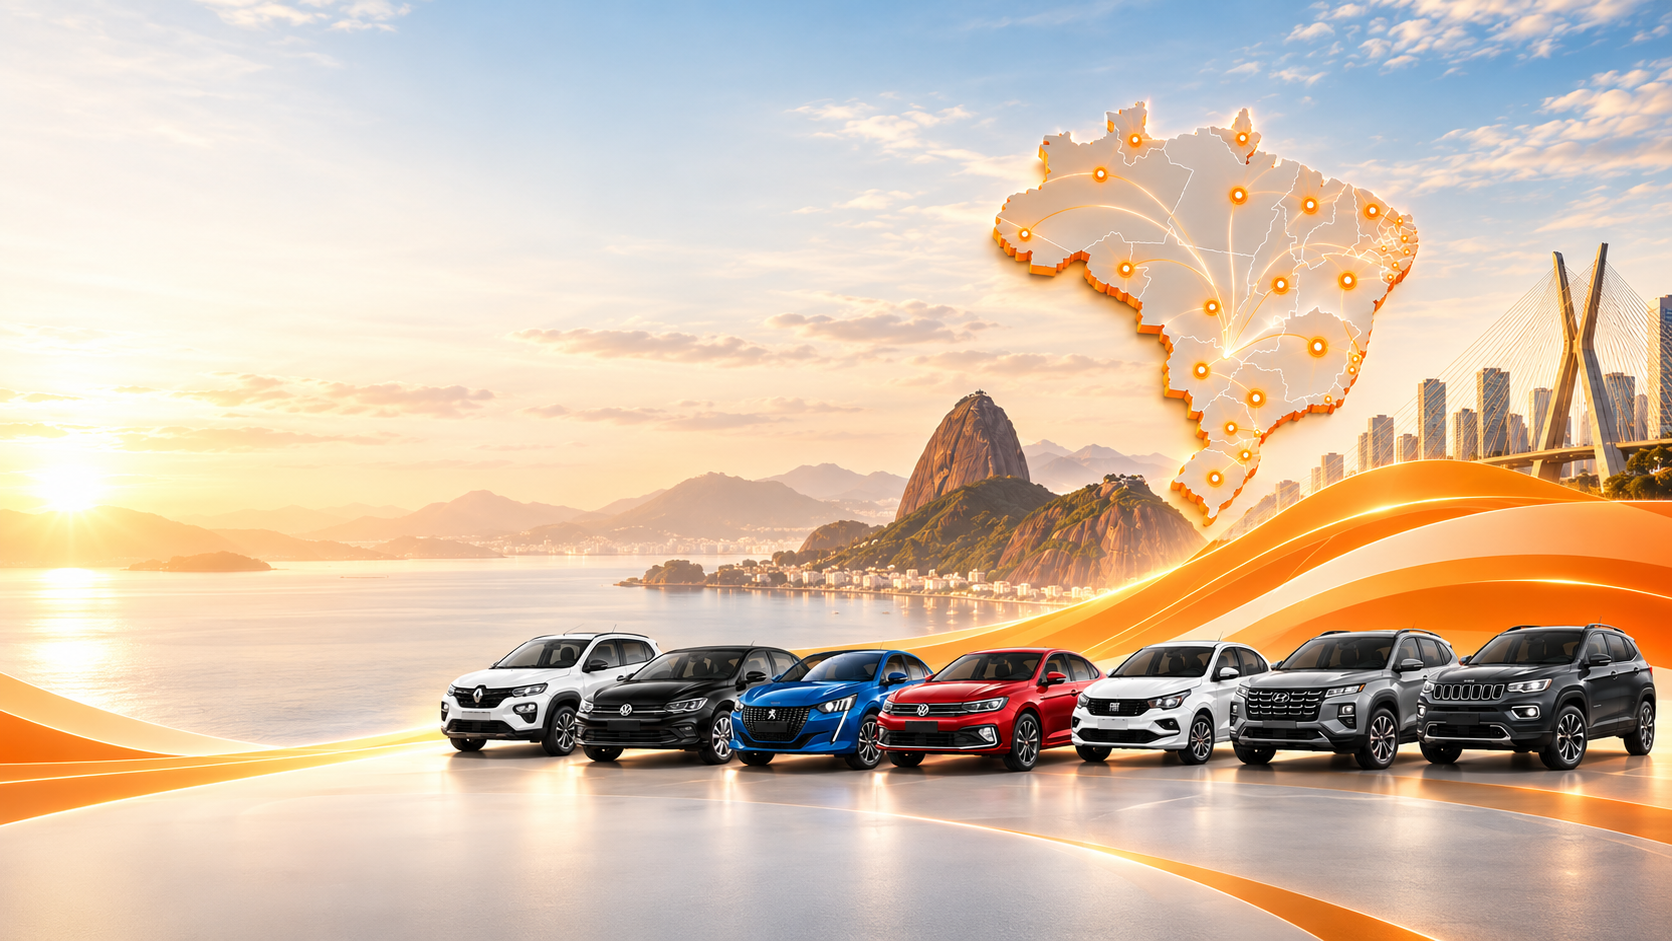
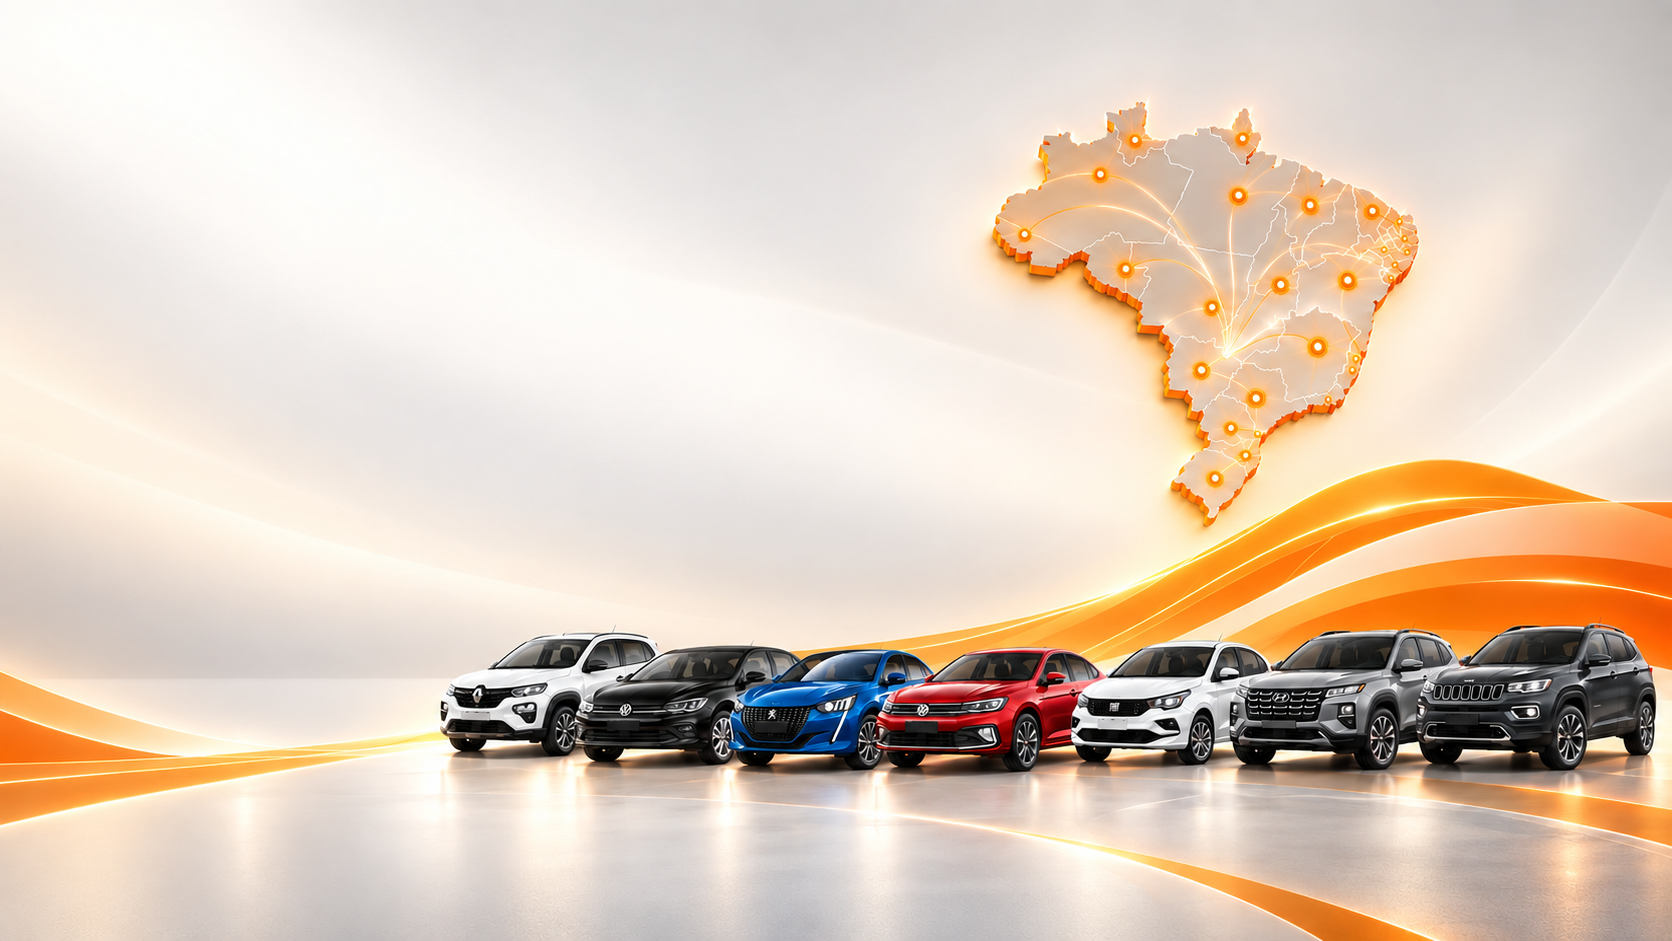
Refresh hero art and soften the section transition on desktop and mobile.
Updates background assets, widens desktop copy, and adds a stronger bottom fade into the next band.

diff --git a/src/styles/pages.scss b/src/styles/pages.scss
@@ -6,7 +6,25 @@
   align-items: center;
   overflow: hidden;
   color: var(--text);
-  background: #d8e8f4;
+  background: #f5f5f5;
+}
+
+.hero::after {
+  content: '';
+  position: absolute;
+  left: 0;
+  right: 0;
+  bottom: 0;
+  z-index: 1;
+  height: clamp(7.5rem, 28vw, 14rem);
+  pointer-events: none;
+  background: linear-gradient(
+    180deg,
+    rgba(255, 255, 255, 0) 0%,
+    rgba(255, 255, 255, 0.45) 28%,
+    rgba(255, 255, 255, 0.88) 62%,
+    var(--bg-primary) 100%
+  );
 }
 
 .hero__bg {
@@ -33,7 +51,7 @@
 .hero__layout {
   grid-area: 1 / 1;
   position: relative;
-  z-index: 1;
+  z-index: 2;
   align-self: center;
   justify-self: stretch;
   padding-block: 1.5rem;
@@ -195,11 +213,27 @@
 
 @media (min-width: 900px) {
   .hero__container {
-    max-width: min(40rem, 50%);
+    max-width: min(48rem, 58%);
+  }
+
+  .hero__title {
+    max-width: 18ch;
+  }
+
+  .hero__text {
+    max-width: 48ch;
+  }
+
+  .hero__cards {
+    max-width: 42rem;
   }
 }
 
 @media (max-width: 700px) {
+  .hero::after {
+    height: clamp(8.5rem, 34vw, 15rem);
+  }
+
   .hero__layout {
     align-self: stretch;
     display: flex;

diff --git a/vite.config.js b/vite.config.js
@@ -3,4 +3,8 @@ import react from '@vitejs/plugin-react'
 
 export default defineConfig({
   plugins: [react()],
+  server: {
+    port: 3000,
+    strictPort: true,
+  },
 })
